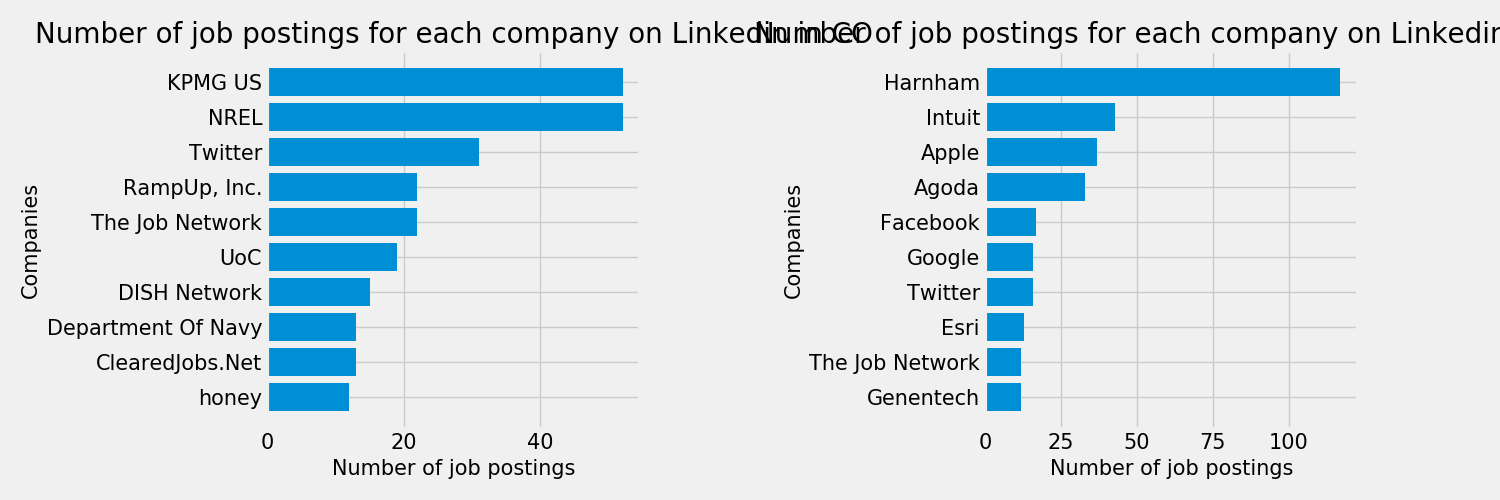
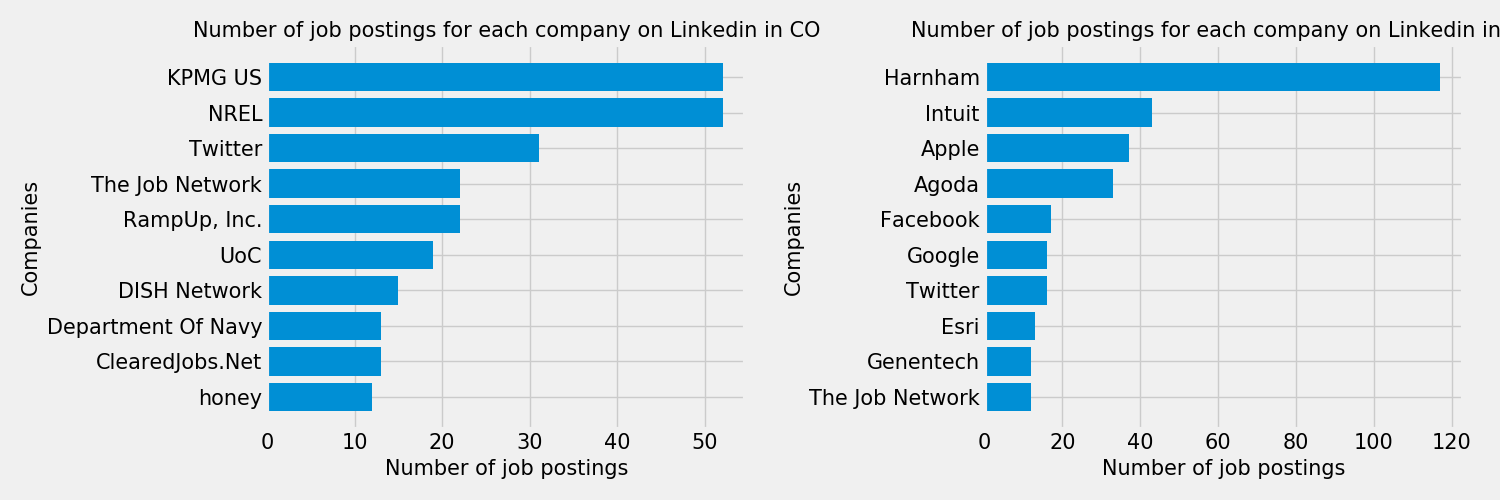
Messing with final graph

diff --git a/src/graphing_eda.py b/src/graphing_eda.py
@@ -124,7 +124,7 @@ def graph_top10_companies(state_id, ax):
 
     ax.set_xlabel('Number of job postings', fontsize=15)
     ax.set_ylabel('Companies', fontsize=15)
-    ax.set_title(f'Number of job postings for each company on Linkedin in {state_id}', fontsize=20)
+    ax.set_title(f'Number of job postings for each company on Linkedin in {state_id}', fontsize=15)
     ax.tick_params(axis='both', labelsize=15)
 
 list_of_locs = ['CO', 'CA']
